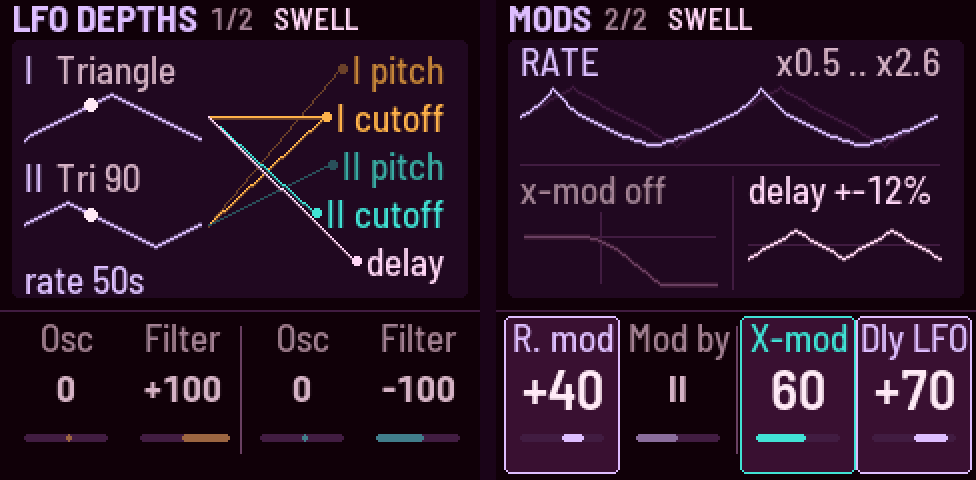
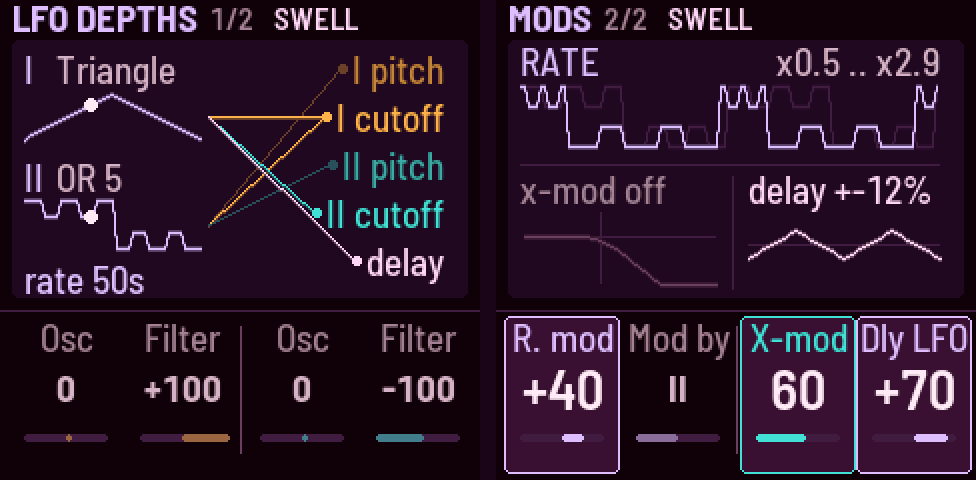
Types page spacing, the manual and the emulator page for AND / OR and the drive
The README is 0.3's manual now (a note links 0.2's). The Effects card
gets the Types page; the wave lists name AND / OR; the decision is logged.

Changed region(s): [[0.5225, 0.1562, 0.9836, 0.3125], [0.0307, 0.3438, 0.2152, 0.5312], [0.9221, 0.125, 0.9836, 0.1562]]

diff --git a/web/emu/index.html b/web/emu/index.html
@@ -508,8 +508,8 @@ kbd { font: 500 .85em var(--mono); background: var(--card); border: 1px solid va
     </div>
     <dl class="acts">
       <div><dt>Movement</dt><dd>scales every LFO depth you’ve set (LFO depths, and Dly LFO on Mods): still (0%), as set (100%), double (200%)</dd></div>
-      <div><dt>Wave I</dt><dd>triangle · square · saw · roundtooth · 2× tri · 2× exp · 4× pattern · random</dd></div>
-      <div><dt>Wave II</dt><dd>tri 90° · square 90° · exp saw · log tri · 2× saw · 2× pattern · 4× exp · random glide</dd></div>
+      <div><dt>Wave I</dt><dd>triangle · square · saw · roundtooth · 2× tri · 2× exp · 4× pattern · random · AND · OR (two squares, 1× and 3×: 2 or 4 steps)</dd></div>
+      <div><dt>Wave II</dt><dd>tri 90° · square 90° · exp saw · log tri · 2× saw · 2× pattern · 4× exp · random glide · AND · OR (1× and 5×)</dd></div>
       <div><dt><span class="cap">OCT−</span> <span class="cap">OCT+</span></dt><dd>Tap: the next shape, round and round · with <span class="cap">SEL</span>: the one before</dd></div>
     </dl>
   </div>
@@ -532,8 +532,9 @@ kbd { font: 500 .85em var(--mono); background: var(--card); border: 1px solid va
       <div class="pblock">
         <div class="g-btn">FX</div>
         <div class="pstack">
-        <div class="g-page"><i>Delay</i><span class="k both"><span class="sr">Knob 1: </span>Type<small>tape · wide · ping-pong · clean</small></span><span class="k both"><span class="sr">Knob 2: </span>Time<small>70–450 ms</small></span><span class="k both"><span class="sr">Knob 3: </span>Repeats</span><span class="k both"><span class="sr">Knob 4: </span>Dly mix</span></div>
-        <div class="g-page"><i>Reverb</i><span class="k both"><span class="sr">Knob 1: </span>Type<small>room · hall · cathedral · chorus</small></span><span class="k both"><span class="sr">Knob 2: </span>Length<small>to Inf: a freeze</small></span><span class="k both"><span class="sr">Knob 3: </span>Damp</span><span class="k both"><span class="sr">Knob 4: </span>Rev mix</span></div>
+        <div class="g-page"><i>Delay</i><span class="k both"><span class="sr">Knob 1: </span>Drive<small>after the delay</small></span><span class="k both"><span class="sr">Knob 2: </span>Time<small>70–450 ms</small></span><span class="k both"><span class="sr">Knob 3: </span>Repeats</span><span class="k both"><span class="sr">Knob 4: </span>Dly mix</span></div>
+        <div class="g-page"><i>Reverb</i><span class="k both"><span class="sr">Knob 1: </span>Length<small>to Inf: a freeze</small></span><span class="k both"><span class="sr">Knob 2: </span>Damp</span><span class="k both none"><span class="sr">Knob 3: </span>–</span><span class="k both"><span class="sr">Knob 4: </span>Rev mix</span></div>
+        <div class="g-page"><i>Types</i><span class="k both"><span class="sr">Knob 1: </span>Delay<small>tape · wide · ping-pong · clean</small></span><span class="k both"><span class="sr">Knob 2: </span>Reverb<small>room · hall · cathedral · chorus</small></span><span class="k both none"><span class="sr">Knob 3: </span>–</span><span class="k both none"><span class="sr">Knob 4: </span>–</span></div>
         </div>
       </div>
     </div>
@@ -737,7 +738,7 @@ function hit(c, cls) {
   c.hit = d;
 }
 // what each control does, on hover (the Buttons list below says the same)
-const TIP = { FX: "Delay: type, time, repeats, mix (again: Reverb: type, length to Inf, damp, mix)", SEL: "Hold while turning: fine (pitch in cents, cutoff and resonance in tenths); with a top white key: a bank (A, B, C, Presets); with PLAY: drone II alone",
+const TIP = { FX: "Delay: drive, time, repeats, mix (again: Reverb: length to Inf, damp, mix; again: Types: the delay's, the reverb's)", SEL: "Hold while turning: fine (pitch in cents, cutoff and resonance in tenths); with a top white key: a bank (A, B, C, Presets); with PLAY: drone II alone",
   ENV: "Tone 1: noise and its colour, white to pink (again: Life: character, feedback, age, drift); hold to peek", LFO: "LFO depths: each drone's osc and filter depth; the keys pick the routing (again: Mods: rate mod, mod by, X-mod amount, delay LFO)",
   EDIT: "Osc: X-Wave, pulse width (again: Sub · Drive: osc mix, drive); hold to peek", GLO: "Setup 1: fade, switch time, scene time (again: Setup 2: tune, stereo width, pressure)",
   HOME: "Play 1: pitch, cutoff (again: Play 2: levels, resonance)", SAVE: "Save; hold it first, then tap a white key: store a scene (in bank A, B or C)", ARP: "Swell: tap on / off, hold to peek at its page, tap twice to stay on it", SEQ: "Partner: interval, detune (again: Pitch moves: Shift's move, pitch glide, Wander, its scale)",

diff --git a/firmware/src/app/ui.c b/firmware/src/app/ui.c
@@ -2102,7 +2102,7 @@ static void pic_types(int32_t y0)
     static const char *const REV_SAYS[DR_NREV] = {"small, close", "a hall", "the largest", "a hall, swinging"};
     int32_t mid = y0 + 42, k, side;
     cv_text(12, y0 + 3, &FONT_S, "DELAY", K_DIM);
-    cv_text(12, y0 + 17, &FONT_B, DR_DLY_NAME[dt], K_FX);
+    cv_text(12, y0 + 25, &FONT_B, DR_DLY_NAME[dt], K_FX);
     text_r(222, y0 + 3, DLY_SAYS[dt], K_TEXT2);
     cv_rect(108, mid, 114, 1, K_GRID);
     for (side = 0; side < 2; side++)
@@ -2114,7 +2114,7 @@ static void pic_types(int32_t y0)
         }
     cv_rect(12, y0 + 66, 210, 1, K_GRID);
     cv_text(12, y0 + 72, &FONT_S, "REVERB", K_DIM);
-    cv_text(12, y0 + 86, &FONT_B, DR_REV_NAME[rt], K_FX);
+    cv_text(12, y0 + 94, &FONT_B, DR_REV_NAME[rt], K_FX);
     text_r(222, y0 + 72, REV_SAYS[rt], K_TEXT2);
     cv_rect(108, y0 + 120, 114, 1, K_GRID);
     draw_tail(rt, 75, 108, y0 + 120, 114, 26, K_FX);

diff --git a/README.md b/README.md
@@ -2,7 +2,8 @@
 
 **A drone synth for the M-VAVE FM-1.**
 
-> **This is the manual for 0.2.** For 0.1 beta, see
+> **This is the manual for 0.3, in development** (what's on `main` now). For the released 0.2, see
+> [the README of 0.2](https://github.com/evanyerburgh/niagara-drift/blob/v0.2/README.md); for 0.1 beta,
 > [the README of 0.1](https://github.com/evanyerburgh/niagara-drift/blob/v0.1-beta/README.md).
 
 Niagara Drift is open-source firmware that turns the M-VAVE
@@ -34,13 +35,14 @@ banks you pick with SEL and the top four.*
   or a subharmonic (⅓, ⅕ of the pitch), and a white or pink noise, into its own self-oscillating
   filter (low-, band- or high-pass) with drive. Pitch is free between notes, from 27 Hz to 1.6 kHz.
 - **Links** between them: pitch link, hard sync, and drone I's sound moving drone II's cutoff.
-- **The Ultra LFO**, after the DS-2's: one rate, two waves of eight shapes each (one of them truly
-  random), routed to each drone's pitch or X-WAVE and cutoff or resonance, alone or summed. It can
+- **The Ultra LFO**, after the DS-2's: one rate, two waves of ten shapes each (one of them truly
+  random, two the Lyra-8's stepped AND and OR), routed to each drone's pitch or X-WAVE and cutoff or resonance, alone or summed. It can
   move its own rate and lock to the Swell.
 - **Movement** (ALGORITHM): all the LFO's depths down or up together, from still to double.
 - **The Swell**: both drones breathing in time, from a slow soft swell to a hard rhythmic gate, with swing.
-- **Effects**: a stereo delay of four types (Tape, Wide, Ping-pong, Clean; the LFO can warble its time) into
-  a reverb of four (Room, Hall, Cathedral, Chorus hall) whose length goes to Inf, a freeze.
+- **Effects**: a stereo delay of four types (Tape, Wide, Ping-pong, Clean; the LFO can warble its time), a drive
+  after it (the drones and their echoes distorted together, as on the Lyra-8), into a reverb of four (Room, Hall,
+  Cathedral, Chorus hall) whose length goes to Inf, a freeze.
 - **Feedback** (the finished sound fed back into the drones) and **Character** (clean to vintage).
 - **Drift**: the drones are never quite still; pitch, cutoff, timbre, level and detune slowly wander.
 - **Switch time**: buttons and keys never jump: the sound moves to a new setting over a time you set.
@@ -171,7 +173,7 @@ knob you're turning.
 ### Pages
 
 Tap a page button and the knobs stay on that page. Hold it to peek: turn a knob, let go, and you're
-back. Tap it again for its second page; "1/2" by the page's name shows which of its pages you're on. A page
+back. Tap it again for its next page (FX has three); "1/2" by the page's name shows which of its pages you're on. A page
 button opens the page you last used there (HOME always opens Play 1), so after visiting Reverb, holding FX
 peeks at Reverb.
 Each page's screen shows a picture of what its knobs do, and the four values below it. Every knob
@@ -284,14 +286,19 @@ glides: a slow turn is a smooth sweep, never steps; turn faster to go further. T
 - **Depth** is how far it dips, in dB (down to −30; all the way, silence). **Shape** firms the breath up into
   a pulse, and only at the top into a hard gate.
 
-#### Delay and Reverb · FX
+#### Delay, Reverb and Types · FX
 
-<img src="docs/img/page-effects.png" width="488" alt="The Delay and Reverb pages: the echoes on the left and right, and the reverb's tail">
+<img src="docs/img/page-effects.png" width="732" alt="The Delay, Reverb and Types pages: the echoes on the left and right with the drive, the reverb's tail, and the two types">
 
 | Page | KNOB 1 | KNOB 2 | KNOB 3 | KNOB 4 |
 |---|---|---|---|---|
-| Delay | type | time | repeats | delay mix |
-| Reverb | type | length | damp | reverb mix |
+| Delay | drive | time | repeats | delay mix |
+| Reverb | length | damp | | reverb mix |
+| Types | delay type | reverb type | | |
+
+- **Drive** distorts the drones and their echoes together, after the delay and before the reverb, as the Lyra-8's
+  distortion does: ghost notes, beating and crackle on the repeats. The first fifth of its turn blends a little in;
+  past that it drives harder, up to a hard clip. It holds the loudness: turning it changes the grit, not the level.
 
 - **Delay types**: **Tape** (the same on both sides, warm, a gentle wow), **Wide** (stereo: the right side's
   echoes come at three-quarters of the left's time), **Ping-pong** (the echoes bounce left and right),
@@ -334,7 +341,11 @@ Everything on GLO belongs to the FM-1 and the room, not to a sound: scenes don't
 | ALGORITHM | the **Movement**: every LFO depth together, from still (0%) to double (200%) |
 | OCT− · OCT+ | Wave I's · Wave II's shape: tap for the next (or off), round and round; SEL + OCT for the one before |
 
-One clock, two waves; the OCT− and OCT+ lights pulse with them. The last shape on each is random.
+One clock, two waves; the OCT− and OCT+ lights pulse with them. After the DS-2's shapes comes a random one,
+then the Lyra-8's two: **AND** and **OR**, two square waves together, one at the LFO's rate and one inside it
+(3 times as fast on Wave I, 5 times on Wave II). AND is up only while both are, so it steps between 2 levels; OR
+adds them, 4 levels. On a drone's pitch that's the Lyra-8's "acid": the drone jumps between 2 or 4 notes in a
+pattern, as far apart as the osc depth says.
 
 **Movement** (ALGORITHM) is how much of all that you hear: it scales every LFO depth together, as you've set
 them. At 0% the LFO moves nothing, whatever the depths say; at 100% (the middle) the depths are as set; at 200%

diff --git a/docs/decisions.md b/docs/decisions.md
@@ -341,3 +341,10 @@ at the end. The current state is in the [README](../README.md) and the code.
   (no pills; Drone I / II as brackets over KNOB1-2 / 3-4), on the keys 12.5 u ink, at most two lines (violet: the LFO
   pages' name). Buttons name the page they open (FX Delay, LFO Depths, EDIT Osc, SAVE Store, PLAY On/off). Captions in a
   strip between the key rows; the gesture keys show their bank at the top. The README picture is drawn the same way.
+- 2026-10-24 (0.3, step 1; Evan): two new LFO shapes on each wave, after Random: **AND** and **OR** (the Lyra-8's): a
+  square at the LFO's rate with one 3x (Wave I) or 5x (Wave II) faster, multiplied (2 levels) or added, the slow one
+  twice the fast (4 levels); centred, as every shape. A **drive after the delay**, before the reverb: the Delay page's
+  KNOB 1 (Drive, Time, Repeats, Mix); the first fifth blends it in, then up to 26 dB into a soft clip with a little bias;
+  its loudness matched to what goes in over ~0.3 s (P1, P9, P11 within 1.1 dB, 0..100). The delay and reverb types
+  move to a **Types** page (FX, third tap: KNOB 1 delay, KNOB 2 reverb); Reverb is Length, Damp, -, Mix. PROJ_FORMAT 32
+  (99 values a sound; 23-31 load with the drive off).
